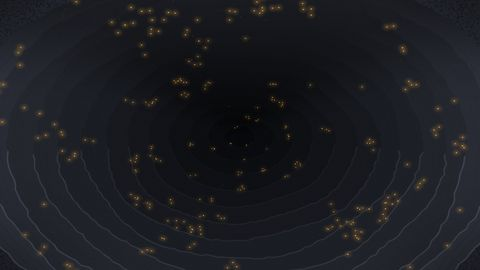
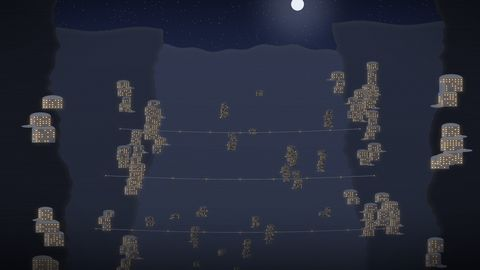
Utapau: a city in the sinkhole wall, and the plateau by day
Review: the top-down rings read as a contour map. Night now
looks across the sinkhole from part-way down: lit buildings stacked on
the walls, bridges across the gap. Day is its own view, the plateau at
noon with more sinkhole mouths, as every scene's day has been since #8.

diff --git a/scripts/utapau.py b/scripts/utapau.py
@@ -1,7 +1,12 @@
-"""Render an original sinkhole-city wallpaper: looking down into a deep round
-sinkhole from its rim, rough rings of cliff stepping down and darkening to a
-black centre, warm lights strung along the ledges. With --day, warm
-sandstone rings in daylight, the centre in shadow and only a few lights on.
+"""Render an original sinkhole-city wallpaper: at night, looking across a
+deep sinkhole from part-way down its wall. Cliffs frame both sides and a far
+wall fades into haze; buildings cling to the rock in stacks, their windows
+lit amber, platforms jut out and thin bridges span the gap. A strip of night
+sky and a moon show at the top.
+
+With --day the viewpoint changes: up on the plateau at noon, looking over
+wind-carved sandstone to more sinkhole mouths cut into the plain, rock
+pinnacles and a pale sky.
 
 Usage: python3 scripts/utapau.py [--day] OUT.jpg [WIDTH HEIGHT]
 Needs Pillow.
@@ -17,21 +22,6 @@ ARGS = [a for a in sys.argv[1:] if a != "--day"]
 W, H = (int(ARGS[1]), int(ARGS[2])) if len(ARGS) > 2 else (3024, 1964)
 OUT = ARGS[0]
 S = W / 3024
-rng = random.Random(33)
-
-P = dict(
-    plateau=("#c2b293", "#a8987a") if DAY else ("#2a2d36", "#1c1e25"),
-    rock_top="#d2c09c" if DAY else "#30333d",
-    rock_deep="#7a6650" if DAY else "#050608",
-    lip="#e4d6b8" if DAY else "#5a6070",
-    shadow="#4e4030" if DAY else "#000000",
-    lamp="#ffd9a0" if DAY else "#ffb347",
-    lit_share=0.12 if DAY else 0.7,
-    grain=4 if DAY else 5,
-)
-CX, CY = W * 0.5, H * 0.56
-RX, RY = W * 0.58, H * 0.62     # the rim
-RINGS = 13
 
 
 def rgb(h):
@@ -43,97 +33,275 @@ def lerp(a, b, t):
     return tuple(int(a[i] + (b[i] - a[i]) * t) for i in range(3))
 
 
-def jitter(c, n):
-    return tuple(max(0, min(255, v + rng.randint(-n, n))) for v in c)
+def ramp(stops, t):
+    t = max(0.0, min(1.0, t)) * (len(stops) - 1)
+    i = min(int(t), len(stops) - 2)
+    return lerp(rgb(stops[i]), rgb(stops[i + 1]), t - i)
 
 
 def solid(c):
     return Image.new("RGB", (W, H), c)
 
 
-def ring_pts(k, rough):
-    """Ring k's outline: an ellipse that shrinks with depth and rises a little
-    (we look in at a slant, so the far wall shows more), roughened."""
-    t = k / RINGS
-    sx, sy = RX * (1 - t) ** 1.15, RY * (1 - t) ** 1.15
-    cy = CY - t * H * 0.06
-    n = 180
-    ph = rng.uniform(0, 6)
-    pts = []
-    for i in range(n):
-        a = 2 * math.pi * i / n
-        wob = 1 + rough * (0.6 * math.sin(3 * a + ph) + 0.4 * math.sin(7 * a + ph * 2) + rng.uniform(-0.25, 0.25))
-        pts.append((CX + math.cos(a) * sx * wob, cy + math.sin(a) * sy * wob))
-    return pts, (CX, cy, sx, sy)
-
-
-# ---- Plateau: mottled ground round the rim.
-img = solid(rgb(P["plateau"][0]))
-mott = Image.effect_noise((W // 8, H // 8), 60).resize((W, H), Image.BICUBIC)
-img = Image.composite(solid(rgb(P["plateau"][1])), img, mott.point(lambda v: max(0, min(255, (v - 100) * 2))))
-d = ImageDraw.Draw(img)
-
-# ---- Rings, outermost first. Each is a ledge: its own tone (darker with
-# depth), a lit lip on the near side, and shadow cast by the ring above on
-# the far side.
-lamps = []
-for k in range(RINGS):
-    t = k / RINGS
-    pts, (cx, cy, sx, sy) = ring_pts(k, 0.025 + 0.02 * t)
-    tone = lerp(rgb(P["rock_top"]), rgb(P["rock_deep"]), t ** 0.75)
+def mask_poly(pts, blur=0):
     m = Image.new("L", (W, H), 0)
     ImageDraw.Draw(m).polygon(pts, fill=255)
-    img = Image.composite(solid(tone), img, m)
-    # Lit lip along the near (lower) edge.
-    lip = Image.new("L", (W, H), 0)
-    ImageDraw.Draw(lip).line([p for p in pts if p[1] > cy] , fill=255, width=max(1, int((3 + 5 * (1 - t)) * S)))
-    img = Image.composite(solid(lerp(rgb(P["lip"]), tone, t)), img, lip.filter(ImageFilter.GaussianBlur(2 * S)).point(lambda v: int(v * (0.8 - 0.5 * t))))
-    # Shadow inside the far (upper) wall.
-    sh = Image.new("L", (W, H), 0)
-    ImageDraw.Draw(sh).ellipse([cx - sx * 0.95, cy - sy * 1.0, cx + sx * 0.95, cy - sy * 0.55], fill=255)
-    sh = ImageChops.multiply(sh.filter(ImageFilter.GaussianBlur(sy * 0.15 + 4)), m)
-    img = Image.composite(solid(rgb(P["shadow"])), img, sh.point(lambda v: int(v * (0.3 if DAY else 0.45))))
-    # Strata: thin lines following the ring.
+    return m.filter(ImageFilter.GaussianBlur(blur)) if blur else m
+
+
+def rough_line(rng, x0, x1, base, amps, step=8):
+    """A ragged edge from x0 to x1: base plus a few sine octaves and jitter."""
+    ph = [rng.uniform(0, 6) for _ in amps]
+    pts = []
+    x = x0
+    while x <= x1 + step:
+        y = base + sum(a * math.sin(x / (W * f) + p) for (a, f), p in zip(amps, ph)) + rng.uniform(-1, 1) * S
+        pts.append((x, y))
+        x += step * S
+    return pts
+
+
+def grain(img, k):
+    noise = Image.effect_noise((W, H), 40).convert("RGB")
+    return Image.blend(img, ImageChops.overlay(img, noise), k / 30)
+
+
+# ---- Day: the plateau at noon, sinkhole mouths in the plain. Runs and
+# exits before the night code below.
+def day():
+    rng = random.Random(7)
+    img = Image.new("RGB", (W, H))
     d = ImageDraw.Draw(img)
-    for f in (0.97, 0.94):
-        d.line([(CX + (x - CX) * f, cy + (y - cy) * f) for x, y in pts] + [(CX + (pts[0][0] - CX) * f, cy + (pts[0][1] - cy) * f)],
-               fill=lerp(tone, (0, 0, 0), 0.25), width=max(1, int(2 * S * (1 - t))))
-    # Lamps strung along this ledge, in small clusters.
-    for _ in range(int(5 + 9 * (1 - t))):
-        a0 = rng.uniform(0, 2 * math.pi)
-        for j in range(rng.randint(2, 6)):
-            a = a0 + j * rng.uniform(0.012, 0.03)
-            f = rng.uniform(0.9, 0.99)
-            lamps.append((CX + math.cos(a) * sx * f, cy + math.sin(a) * sy * f, (1 - t) ** 0.8, rng.random() < P["lit_share"]))
+    HZ = H * 0.36
+    for y in range(int(HZ) + 2):
+        d.line([(0, y), (W, y)], fill=ramp(["#8fb0c8", "#bcccd2", "#e2dccb"], (y / HZ) ** 1.3))
+    # Far mesas on the horizon, hazed toward the sky.
+    for col, base, amp in [("#c9bfa8", HZ, 26), ("#bba98a", HZ + 8 * S, 16)]:
+        pts = rough_line(rng, 0, W, base - amp * S * 2, [(amp * S, 0.05), (amp * 0.5 * S, 0.013)])
+        for _ in range(3):  # flat-topped mesas: lift a few spans
+            c0 = rng.uniform(0.05, 0.85) * W
+            c1 = c0 + rng.uniform(0.06, 0.16) * W
+            pts = [(x, y - 40 * S if c0 < x < c1 else y) for x, y in pts]
+        img.paste(rgb(col), mask=mask_poly(pts + [(W, base + 4 * S), (0, base + 4 * S)], 1.5 * S))
+    d = ImageDraw.Draw(img)
+    # The plain: warm sandstone with long wind-scoured streaks.
+    for y in range(int(HZ), H):
+        d.line([(0, y), (W, y)], fill=ramp(["#b8a27c", "#c6b08a", "#bea67e"], (y - HZ) / (H - HZ)))
+    streak = Image.new("L", (W, H), 0)
+    sd = ImageDraw.Draw(streak)
+    for _ in range(int(500 * S) + 200):
+        y = HZ + (rng.random() ** 1.6) * (H - HZ)
+        t = (y - HZ) / (H - HZ)
+        x = rng.uniform(-0.1, 1.0) * W
+        sd.line([(x, y), (x + rng.uniform(0.05, 0.3) * W * (0.3 + t), y + rng.uniform(-2, 2) * S)], fill=rng.randint(30, 90), width=max(1, int((1 + 5 * t) * S)))
+    img = Image.composite(solid(rgb("#a8906a")), img, streak.filter(ImageFilter.GaussianBlur(2.5 * S)))
 
-# ---- The bottom: black, soft-edged.
-pts, (cx, cy, sx, sy) = ring_pts(RINGS, 0.04)
-m = Image.new("L", (W, H), 0)
-ImageDraw.Draw(m).polygon(pts, fill=255)
-img = Image.composite(solid(rgb(P["shadow"])), img, m.filter(ImageFilter.GaussianBlur(12 * S)))
+    def mouth(img, cx, cy, rx, ry):
+        """A sinkhole mouth at a low angle: a pale lip, the far wall lit and
+        banded down into the dark, the near rim overhanging in shadow, and a
+        few landing platforms catching the sun."""
+        lip = Image.new("L", (W, H), 0)
+        ImageDraw.Draw(lip).ellipse([cx - rx * 1.12, cy - ry * 1.25, cx + rx * 1.12, cy + ry * 1.15], fill=255)
+        img = Image.composite(solid(rgb("#e6d6b4")), img, lip.filter(ImageFilter.GaussianBlur(ry * 0.12)).point(lambda v: int(v * 0.8)))
+        hole = Image.new("L", (W, H), 0)
+        ImageDraw.Draw(hole).ellipse([cx - rx, cy - ry, cx + rx, cy + ry], fill=255)
+        wall = Image.new("RGB", (W, H))
+        wd = ImageDraw.Draw(wall)
+        for i in range(int(ry * 2)):
+            t = i / (ry * 2)
+            band = 0.5 + 0.5 * math.sin(i / max(1.0, ry * 0.09))
+            wd.line([(cx - rx, cy - ry + i), (cx + rx, cy - ry + i)], fill=lerp(lerp(rgb("#c49a68"), rgb("#9a7650"), band * 0.4), rgb("#2c2016"), t ** 0.9))
+        img = Image.composite(wall, img, hole.filter(ImageFilter.GaussianBlur(1.2 * S)))
+        near = Image.new("L", (W, H), 0)
+        ImageDraw.Draw(near).ellipse([cx - rx * 1.02, cy - ry * 0.15, cx + rx * 1.02, cy + ry * 1.5], fill=255)
+        near = ImageChops.multiply(near, hole)
+        img = Image.composite(solid(rgb("#1c140e")), img, near.filter(ImageFilter.GaussianBlur(ry * 0.08)).point(lambda v: int(v * 0.85)))
+        dd = ImageDraw.Draw(img)
+        for _ in range(int(3 + rx / (120 * S))):
+            px = cx + rng.uniform(-0.65, 0.65) * rx
+            py = cy - ry * rng.uniform(0.25, 0.85)
+            pw = rx * rng.uniform(0.05, 0.11)
+            dd.polygon([(px - pw * 0.5, py), (px + pw * 0.5, py), (px + pw * 0.15, py + pw * 0.35), (px - pw * 0.15, py + pw * 0.35)], fill=rgb("#6e5a44"))
+            dd.ellipse([px - pw, py - pw * 0.16, px + pw, py + pw * 0.16], fill=rgb("#d8ccb2"))
+            dd.ellipse([px - pw * 0.8, py - pw * 0.16, px + pw * 0.6, py + pw * 0.06], fill=rgb("#f0e8d6"))
+        return img
 
-# ---- Lamps: small warm windows, lit ones glowing.
+    # Mouths far to near; each nearer one draws over the plain in front.
+    for cx, cy, rx in [(0.80, 0.42, 0.06), (0.22, 0.45, 0.09), (0.56, 0.55, 0.16), (0.12, 0.8, 0.22)]:
+        img = mouth(img, W * cx, H * cy, W * rx, W * rx * (0.17 + 0.2 * (cy - 0.36)))
+    # Rock pinnacles: wind-cut columns, lit on the left, a shadow to the right.
+    for px, base, ph, pw in [(0.40, 0.47, 0.17, 0.018), (0.43, 0.46, 0.11, 0.012), (0.93, 0.66, 0.32, 0.03), (0.86, 0.6, 0.18, 0.016)]:
+        x, b, h, w = W * px, H * base, H * ph, W * pw
+        sh = Image.new("L", (W, H), 0)
+        ImageDraw.Draw(sh).ellipse([x - w * 0.6, b - h * 0.02, x + w * 4, b + h * 0.06], fill=110)
+        img = Image.composite(solid(rgb("#7a6244")), img, sh.filter(ImageFilter.GaussianBlur(6 * S)))
+        pts = [(x - w, b), (x - w * 0.7, b - h * 0.55), (x - w * 1.05, b - h * 0.8), (x - w * 0.55, b - h), (x + w * 0.6, b - h * 0.97), (x + w * 0.9, b - h * 0.7), (x + w * 0.65, b - h * 0.4), (x + w, b)]
+        img.paste(rgb("#9a7c58"), mask=mask_poly(pts, 1 * S))
+        lit = [(x - w, b), (x - w * 0.7, b - h * 0.55), (x - w * 1.05, b - h * 0.8), (x - w * 0.55, b - h), (x - w * 0.05, b - h * 0.98), (x - w * 0.15, b)]
+        img.paste(rgb("#dcc49a"), mask=mask_poly(lit, 1 * S))
+    vig = Image.new("L", (W, H), 255)
+    ImageDraw.Draw(vig).ellipse([-W * 0.12, -H * 0.2, W * 1.12, H * 1.15], fill=0)
+    img = Image.composite(solid((60, 46, 30)), img, vig.filter(ImageFilter.GaussianBlur(260 * S)).point(lambda v: int(v * 0.3)))
+    grain(img, 3).save(OUT, quality=90)
+    print(OUT)
+
+
+if DAY:
+    day()
+    sys.exit(0)
+
+# ---- Night: across the sinkhole from part-way down its wall.
+rng = random.Random(33)
+P = dict(sky=["#0a0d1c", "#18203a", "#2c3450"], far="#2a3040", near="#151821", lamp="#ffb347", window="#ffd38a")
+img = Image.new("RGB", (W, H))
 d = ImageDraw.Draw(img)
-glow = Image.new("L", (W, H), 0)
-gd = ImageDraw.Draw(glow)
-lamp = rgb(P["lamp"])
-for x, y, size, lit in lamps:
-    w, h = (2 + 5 * size) * S, (1.5 + 3 * size) * S
-    if lit:
-        d.rectangle([x - w / 2, y - h / 2, x + w / 2, y + h / 2], fill=jitter(lamp, 12))
-        gd.ellipse([x - w * 3, y - h * 3, x + w * 3, y + h * 3], fill=int(110 * size + 40))
-    else:
-        d.rectangle([x - w / 2, y - h / 2, x + w / 2, y + h / 2], fill=lerp(lamp, (0, 0, 0), 0.45 if DAY else 0.75))
-if not DAY:
-    img = Image.composite(solid(lamp), img, glow.filter(ImageFilter.GaussianBlur(10 * S)).point(lambda v: int(v * 0.6)))
+for y in range(H):
+    d.line([(0, y), (W, y)], fill=ramp(P["sky"], (y / (H * 0.4)) ** 0.9))
+for _ in range(int(500 * S * S) + 150):
+    x, y = rng.random() * W, rng.random() * H * 0.3
+    v = rng.randint(100, 230)
+    d.ellipse([x, y, x + 2 * S, y + 2 * S], fill=(v, v, min(255, v + 15)))
+mx, my, mr = W * 0.62, H * 0.08, 40 * S
+mg = Image.new("L", (W, H), 0)
+ImageDraw.Draw(mg).ellipse([mx - mr * 5, my - mr * 5, mx + mr * 5, my + mr * 5], fill=70)
+img = Image.composite(solid((190, 200, 230)), img, mg.filter(ImageFilter.GaussianBlur(mr * 2)))
+ImageDraw.Draw(img).ellipse([mx - mr, my - mr, mx + mr, my + mr], fill=(232, 236, 246))
 
-# ---- Vignette and grain.
+# Walls are stacked layers: the far wall across the gap, mid walls slanting
+# in from each side, near cliffs framing the picture; each nearer layer is
+# darker and less hazed. Window and lamp glows collect in one mask.
+glows = Image.new("L", (W, H), 0)
+gd = ImageDraw.Draw(glows)
+
+
+def wall(img, pts, col, haze, strata_col):
+    m = mask_poly(pts, 1.2 * S)
+    img = Image.composite(solid(col), img, m)
+    st = Image.new("L", (W, H), 0)
+    sd = ImageDraw.Draw(st)
+    y = 0
+    while y < H:
+        y += rng.uniform(14, 40) * S
+        sd.line(rough_line(rng, 0, W, y, [(4 * S, 0.02)], 24), fill=rng.randint(40, 110), width=max(1, int(rng.uniform(2, 6) * S)))
+    img = Image.composite(solid(strata_col), img, ImageChops.multiply(st.filter(ImageFilter.GaussianBlur(2 * S)), m))
+    rim = Image.new("L", (W, H), 0)
+    ImageDraw.Draw(rim).line(pts, fill=255, width=max(1, int(10 * S)))
+    rim = ImageChops.multiply(rim.filter(ImageFilter.GaussianBlur(14 * S)), m)
+    img = Image.composite(lerp(col, rgb("#8a7a6a"), 0.6), img, rim.point(lambda v: int(v * 0.5)))
+    if haze:
+        hz = Image.linear_gradient("L").resize((W, H)).point(lambda v: int(haze * 255 * (1 - v / 255) ** 0.6))
+        img = Image.composite(solid(rgb("#3a4466")), img, ImageChops.multiply(hz, m))
+    return img
+
+
+def building_stack(img, x, y, w, depth, count):
+    """Buildings clinging to the rock: boxes stacked upward, domed roofs,
+    rows of lit windows, sometimes a round platform with a lamp."""
+    dd = ImageDraw.Draw(img)
+    shade = lerp(rgb("#4a5266"), rgb("#1c202a"), depth)
+    lit_side = lerp(rgb("#6a7286"), rgb("#2a2f3c"), depth)
+    for _ in range(count):
+        bw = w * rng.uniform(0.6, 1.0)
+        bh = w * rng.uniform(0.35, 0.6)
+        bx = x + rng.uniform(-0.2, 0.2) * w
+        dd.rectangle([bx - bw / 2, y - bh, bx + bw / 2, y], fill=shade)
+        dd.rectangle([bx - bw / 2, y - bh, bx - bw / 2 + bw * 0.25, y], fill=lit_side)
+        dd.pieslice([bx - bw / 2, y - bh - bw * 0.18, bx + bw / 2, y - bh + bw * 0.18], 180, 360, fill=lit_side)
+        rows = max(1, int(bh / (12 * S * (1.2 - depth))))
+        n = max(2, int(bw / (16 * S * (1.2 - depth))))
+        for r in range(rows):
+            wy = y - bh + (r + 0.6) * bh / (rows + 0.3)
+            for c in range(n):
+                if rng.random() < 0.62:
+                    wx = bx - bw / 2 + (c + 0.5) * bw / n
+                    ww, wh = max(1, 3.5 * S * (1.1 - depth)), max(1, 2.5 * S * (1.1 - depth))
+                    dd.rectangle([wx - ww, wy - wh, wx + ww, wy + wh], fill=lerp(rgb(P["window"]), shade, depth * 0.4))
+                    gd.ellipse([wx - ww * 5, wy - wh * 6, wx + ww * 5, wy + wh * 6], fill=int(60 * (1 - depth) + 30))
+        if rng.random() < 0.5:
+            px = bx + rng.choice([-1, 1]) * bw * 0.55
+            dd.ellipse([px - bw * 0.35, y - bh * 0.15, px + bw * 0.35, y + bh * 0.08], fill=lit_side)
+            gd.ellipse([px - 3 * S, y - bh * 0.15 - 3 * S, px + 3 * S, y - bh * 0.15 + 3 * S], fill=200)
+            dd.ellipse([px - 2 * S, y - bh * 0.15 - 2 * S, px + 2 * S, y - bh * 0.15 + 2 * S], fill=rgb(P["lamp"]))
+        y -= bh + w * rng.uniform(0.04, 0.12)
+    return img
+
+
+def flush(img, k=0.55):
+    """Lay down the glows gathered so far, then start an empty mask, so the
+    next wall in front covers them."""
+    global glows, gd
+    img = Image.composite(solid(rgb(P["lamp"])), img, glows.filter(ImageFilter.GaussianBlur(12 * S)).point(lambda v: int(v * k)))
+    glows = Image.new("L", (W, H), 0)
+    gd = ImageDraw.Draw(glows)
+    return img
+
+
+def edge(x0, dx, y0, amp, seed):
+    """A wall's inner edge from (x0, y0) down to the bottom: it slants by dx
+    and juts in and out in ledges, so it reads as rock, not card."""
+    r = random.Random(seed)
+    pts = []
+    for i in range(61):
+        t = i / 60
+        jut = amp * (0.6 * math.sin(t * 11 + seed) + 0.4 * math.sin(t * 29 + seed * 2)) + r.uniform(-0.3, 0.3) * amp
+        pts.append((x0 + dx * t ** 1.3 + jut * W, y0 + (H - y0) * t))
+    return pts
+
+
+def at_edge(pts, y):
+    for (x0, y0), (x1, y1) in zip(pts, pts[1:]):
+        if y0 <= y <= y1:
+            return x0 + (x1 - x0) * (y - y0) / max(1e-6, y1 - y0)
+    return pts[-1][0]
+
+
+mid = lerp(rgb(P["far"]), rgb(P["near"]), 0.45)
+far = rough_line(rng, 0, W, H * 0.22, [(20 * S, 0.04), (8 * S, 0.011)])
+img = wall(img, far + [(W, H), (0, H)], rgb(P["far"]), 0.45, rgb("#20263a"))
+for _ in range(24):
+    img = building_stack(img, rng.uniform(0.3, 0.7) * W, H * rng.uniform(0.36, 0.95), 55 * S, 0.75, rng.randint(1, 4))
+img = flush(img, 0.45)
+
+lm = rough_line(rng, 0, W * 0.34, H * 0.16, [(14 * S, 0.03)])
+lm_edge = edge(W * 0.34, -W * 0.08, H * 0.16, 0.012, 3)
+img = wall(img, lm + lm_edge + [(0, H)], mid, 0.22, rgb("#1a1f2e"))
+rm = rough_line(rng, W * 0.7, W, H * 0.14, [(14 * S, 0.03)])
+rm_edge = edge(W * 0.7, W * 0.07, H * 0.14, 0.012, 5)
+img = wall(img, rm_edge[::-1] + rm + [(W, H)], mid, 0.22, rgb("#1a1f2e"))
+# Mid-wall buildings hug each wall's inner edge, some jutting past it.
+for _ in range(13):
+    y = H * rng.uniform(0.3, 0.97)
+    img = building_stack(img, at_edge(lm_edge, y) - rng.uniform(-0.01, 0.07) * W, y, 90 * S, 0.45, rng.randint(2, 4))
+    y = H * rng.uniform(0.3, 0.97)
+    img = building_stack(img, at_edge(rm_edge, y) + rng.uniform(-0.01, 0.07) * W, y, 90 * S, 0.45, rng.randint(2, 4))
+
+# Bridges: thin sagging spans across the gap, lamps along them.
+d = ImageDraw.Draw(img)
+for by, x0, x1 in [(0.48, 0.25, 0.75), (0.63, 0.22, 0.78), (0.8, 0.2, 0.8)]:
+    pts = [(W * (x0 + (x1 - x0) * t), H * by + H * 0.012 * math.sin(math.pi * t)) for t in [i / 40 for i in range(41)]]
+    d.line(pts, fill=rgb("#4a5266"), width=max(1, int(5 * S)))
+    d.line([(x, y - 4 * S) for x, y in pts], fill=rgb("#2a2f3c"), width=max(1, int(2 * S)))
+    for x, y in pts[::5]:
+        gd.ellipse([x - 6 * S, y - 6 * S, x + 6 * S, y + 6 * S], fill=170)
+        d.ellipse([x - 2 * S, y - 2 * S, x + 2 * S, y + 2 * S], fill=rgb(P["lamp"]))
+
+img = flush(img)
+ln_edge = edge(W * 0.11, W * 0.04, 0, 0.018, 7)
+ln = [(0, 0)] + ln_edge + [(0, H)]
+img = wall(img, ln, rgb(P["near"]), 0, rgb("#0c0e14"))
+rn_edge = edge(W * 0.92, -W * 0.03, 0, 0.018, 11)
+rn = [(W, 0)] + rn_edge + [(W, H)]
+img = wall(img, rn, rgb(P["near"]), 0, rgb("#0c0e14"))
+for _ in range(5):
+    y = H * rng.uniform(0.35, 1.05)
+    img = building_stack(img, at_edge(ln_edge, min(y, H - 1)) - rng.uniform(0.0, 0.04) * W, y, 150 * S, 0.15, rng.randint(1, 3))
+    y = H * rng.uniform(0.35, 1.05)
+    img = building_stack(img, at_edge(rn_edge, min(y, H - 1)) + rng.uniform(0.0, 0.04) * W, y, 150 * S, 0.15, rng.randint(1, 3))
+img = flush(img)
+deep = Image.linear_gradient("L").resize((W, H)).point(lambda v: int(200 * max(0.0, (v / 255 - 0.72) / 0.28) ** 1.5))
+img = Image.composite(solid((4, 5, 8)), img, deep)
 vig = Image.new("L", (W, H), 255)
 ImageDraw.Draw(vig).ellipse([-W * 0.08, -H * 0.12, W * 1.08, H * 1.12], fill=0)
-vig = vig.filter(ImageFilter.GaussianBlur(240 * S))
-img = Image.composite(solid((50, 40, 28) if DAY else (0, 0, 0)), img, vig.point(lambda v: int(v * (0.28 if DAY else 0.55))))
-noise = Image.effect_noise((W, H), 40).convert("RGB")
-img = Image.blend(img, ImageChops.overlay(img, noise), P["grain"] / 30)
-
-img.save(OUT, quality=90)
+img = Image.composite(solid((0, 0, 0)), img, vig.filter(ImageFilter.GaussianBlur(240 * S)).point(lambda v: int(v * 0.5)))
+grain(img, 5).save(OUT, quality=90)
 print(OUT)
